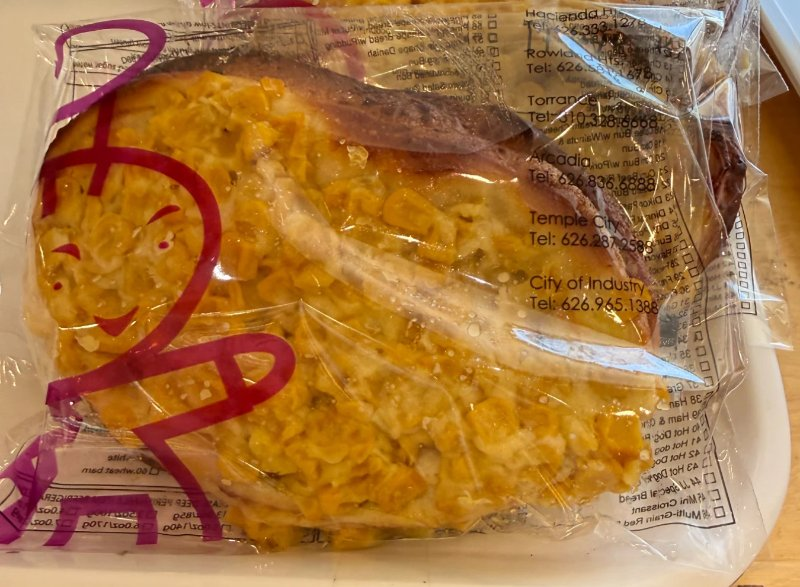
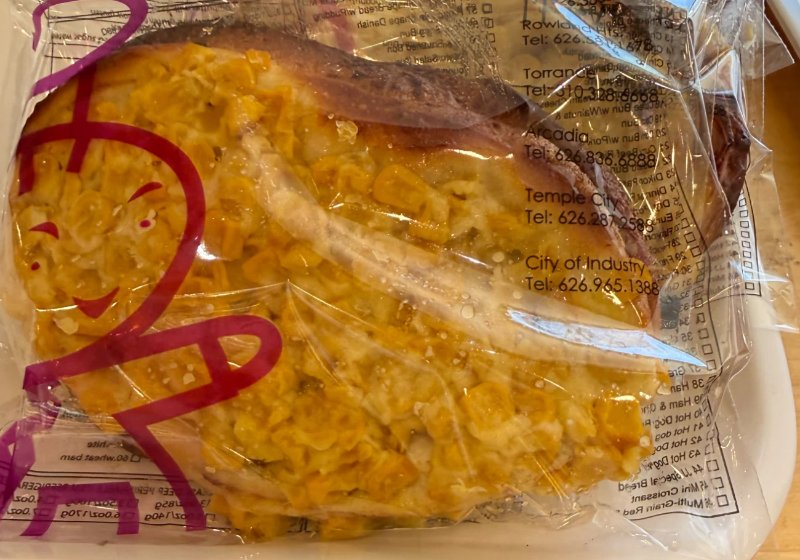
Replace 2 photos

diff --git a/js/photo-sources.js b/js/photo-sources.js
@@ -123,7 +123,7 @@ window.PHOTO_SOURCES = {
   "danish-almond": "incoming/213-danish-almond.webp",
   "danish-tuna": "incoming/215-danish-tuna.webp",
   "soft-red-bean": "incoming/217-soft-red-bean.webp",
-  "euro-walnut": "incoming/219-euro-walnut.webp",
+  "euro-walnut": "incoming/365-euro-walnut.webp",
   "sweet-sesame-cake": "incoming/221-sweet-sesame-cake.webp",
   "peanut-bun": "incoming/223-peanut-bun.webp",
   "parmesan": "incoming/225-parmesan.webp",
@@ -160,7 +160,7 @@ window.PHOTO_SOURCES = {
   "red-bean-mochi-box": "incoming/284-red-bean-mochi-box.webp",
   "slice-vanilla-straw": "incoming/286-slice-vanilla-straw.webp",
   "jj-special-s": "incoming/288-jj-special-s.webp",
-  "corn-porksong": "incoming/290-corn-porksong.webp",
+  "corn-porksong": "incoming/364-corn-porksong.webp",
   "seaweed-roll": "incoming/294-seaweed-roll.webp",
   "coconut-bun": "incoming/296-coconut-bun.webp",
   "portugal-tart-1": "incoming/298-portugal-tart-1.webp",

diff --git a/js/notes.js b/js/notes.js
@@ -48,7 +48,7 @@ window.ITEM_NOTES = {
   "walnut-wheat": "Oval brownish wheat loaf with slashes on top and walnut pieces showing. Lighter brown than the brown sugar one.",
   "brown-sugar-walnut": "Dark brown oval loaf with slashes. Much darker color (brown sugar and cocoa) than the wheat walnut.",
   "cranberry-cheese": "Oval multigrain bun with slits on top and dark-red cranberries showing through the crust and slits. Cream cheese inside.",
-  "euro-walnut": "Big flat round golden loaf with walnut pieces poking through the top.",
+  "euro-walnut": "Round loaf with a pale, cracked cookie-like crust on top and lots of walnut pieces around the sides and through the cracks.",
   "wave-bread": "Large rectangular loaf with a bumpy \"wave\" top and the JJ logo stamped in the middle.",
 
   // ---- Bread folder: multi-packs ----

diff --git a/index.html b/index.html
@@ -363,10 +363,10 @@
 
   <script src="js/menu-data.js?v=908c13dd"></script>
   <script src="js/photos-manifest.js?v=e7a73d1b"></script>
-  <script src="js/photo-sources.js?v=47bbcf59"></script>
+  <script src="js/photo-sources.js?v=30013a11"></script>
   <script src="js/full-names.js?v=d20380df"></script>
   <script src="js/display-cases.js?v=3d398c99"></script>
-  <script src="js/notes.js?v=e2c09c39"></script>
+  <script src="js/notes.js?v=9e830161"></script>
   <script src="js/app.js?v=b38ab063"></script>
   <script src="js/sync-config.js?v=e9c1ad28"></script>
   <script src="js/stats.js?v=abb0aac1"></script>

diff --git a/review.html b/review.html
@@ -62,7 +62,7 @@
 
   <script src="js/menu-data.js?v=908c13dd"></script>
   <script src="js/photos-manifest.js?v=e7a73d1b"></script>
-  <script src="js/photo-sources.js?v=47bbcf59"></script>
+  <script src="js/photo-sources.js?v=30013a11"></script>
   <script>
     var PHOTOS = window.PHOTO_FILES || {}, SOURCES = window.PHOTO_SOURCES || {};
     var main = document.getElementById("main"), total = 0, have = 0, priced = 0;
